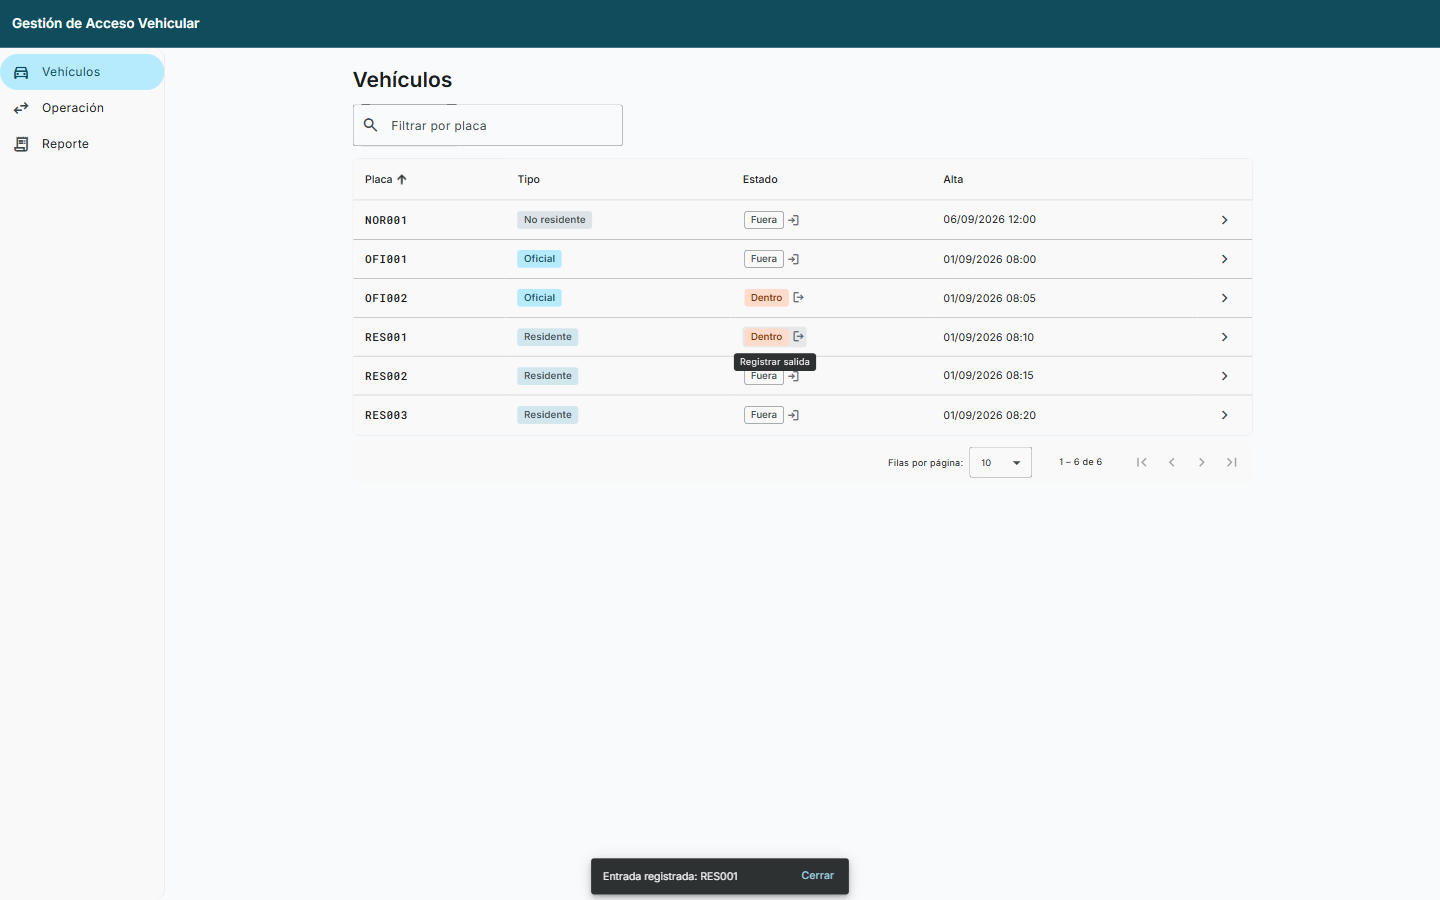
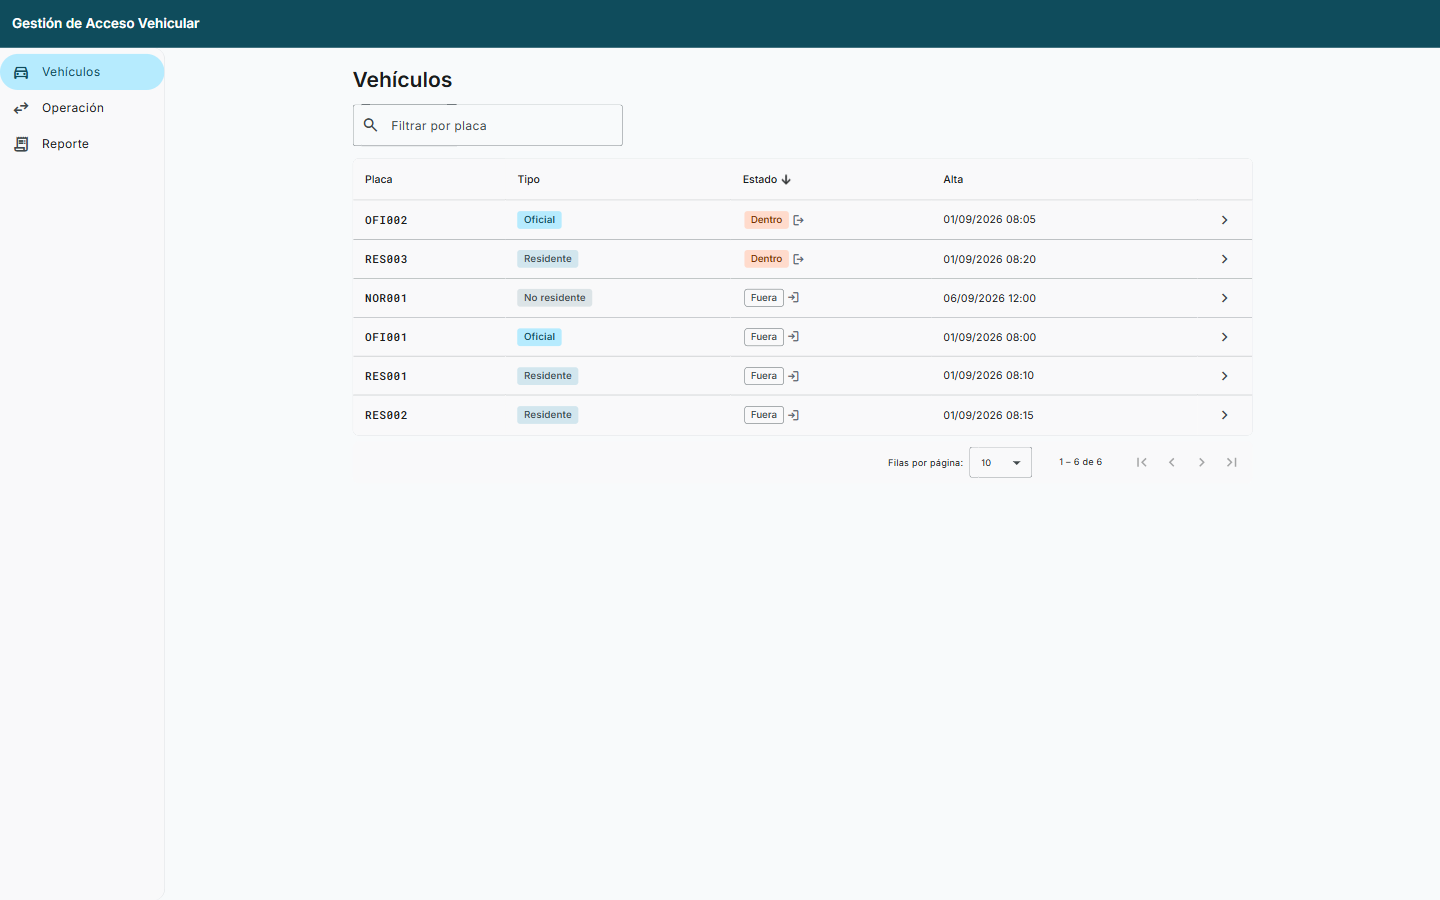
feat: listado ordenado con vehículos dentro primero y luego por placa
Backend: campo ordenable dentro (propiedad derivada @Formula), orden por defecto dentro,desc y desempate estable por placa en el listado de vehículos. Frontend: cabecera Estado ordenable y activa por defecto. 108 pruebas y 59 specs en verde; README y decisiones actualizados.

diff --git a/frontend/src/app/features/vehiculos/lista/vehiculos-lista.spec.ts b/frontend/src/app/features/vehiculos/lista/vehiculos-lista.spec.ts
@@ -51,7 +51,7 @@ describe('VehiculosLista', () => {
     expect(req.request.method).toBe('GET');
     expect(req.request.params.get('page')).toBe('0');
     expect(req.request.params.get('size')).toBe('10');
-    expect(req.request.params.get('sort')).toBe('placa,asc');
+    expect(req.request.params.get('sort')).toBe('dentro,desc');
     expect(req.request.params.has('placa')).toBeFalse();
     req.flush(pagina(VEHICULOS, 42));
     await fixture.whenStable();
@@ -97,6 +97,23 @@ describe('VehiculosLista', () => {
     await cabeceras[0].click();
     const req = peticion();
     expect(req.request.params.get('sort')).toBe('tipo,asc');
+    expect(req.request.params.get('page')).toBe('0');
+    req.flush(pagina(VEHICULOS));
+    await fixture.whenStable();
+  });
+
+  it('arranca ordenado por Estado (dentro primero) y al pulsar la cabecera alterna a dentro,asc', async () => {
+    peticion().flush(pagina(VEHICULOS));
+    await fixture.whenStable();
+
+    const sort = await loader.getHarness(MatSortHarness);
+    const activa = await sort.getActiveHeader();
+    expect(await activa?.getLabel()).toBe('Estado');
+    expect(await activa?.getSortDirection()).toBe('desc');
+
+    await activa?.click();
+    const req = peticion();
+    expect(req.request.params.get('sort')).toBe('dentro,asc');
     expect(req.request.params.get('page')).toBe('0');
     req.flush(pagina(VEHICULOS));
     await fixture.whenStable();

diff --git a/frontend/src/app/features/vehiculos/lista/vehiculos-lista.html b/frontend/src/app/features/vehiculos/lista/vehiculos-lista.html
@@ -51,8 +51,8 @@
         mat-table
         [dataSource]="pagina.content"
         matSort
-        matSortActive="placa"
-        matSortDirection="asc"
+        matSortActive="dentro"
+        matSortDirection="desc"
         matSortDisableClear
         (matSortChange)="cambiarOrden($event)"
         aria-label="Listado de vehículos"
@@ -71,8 +71,15 @@
           </td>
         </ng-container>
 
-        <ng-container matColumnDef="estado">
-          <th mat-header-cell *matHeaderCellDef>Estado</th>
+        <ng-container matColumnDef="dentro">
+          <th
+            mat-header-cell
+            *matHeaderCellDef
+            mat-sort-header
+            matTooltip="Por defecto: dentro primero, luego placa"
+          >
+            Estado
+          </th>
           <td mat-cell *matCellDef="let vehiculo">
             <button
               type="button"

diff --git a/frontend/src/app/features/vehiculos/lista/vehiculos-lista.ts b/frontend/src/app/features/vehiculos/lista/vehiculos-lista.ts
@@ -23,7 +23,8 @@ import { Loading } from '../../../shared/loading/loading';
 import { PlacaMayusculas } from '../../../shared/placa/placa-mayusculas.directive';
 import { normalizarPlaca } from '../../../shared/placa/placa.validator';
 
-export const ORDEN_INICIAL = 'placa,asc';
+/** Dentro primero y, en cada grupo, placa ascendente (el backend desempata por placa). */
+export const ORDEN_INICIAL = 'dentro,desc';
 
 @Component({
   selector: 'app-vehiculos-lista',
@@ -54,7 +55,7 @@ export class VehiculosLista {
   private readonly locale = inject(LOCALE_ID);
 
   readonly filtroControl = new FormControl('', { nonNullable: true });
-  readonly columnas = ['placa', 'tipo', 'estado', 'createdAt', 'acciones'];
+  readonly columnas = ['placa', 'tipo', 'dentro', 'createdAt', 'acciones'];
   readonly tamanos = [5, 10, 25];
 
   readonly pagina = signal(0);

diff --git a/backend/src/main/java/mx/neology/acceso/infrastructure/persistencia/Paginas.java b/backend/src/main/java/mx/neology/acceso/infrastructure/persistencia/Paginas.java
@@ -14,11 +14,22 @@ final class Paginas {
   private Paginas() {}
 
   static Pageable aPageable(ConsultaPagina consulta) {
-    Sort orden =
-        consulta.ascendente()
-            ? Sort.by(consulta.campoOrden()).ascending()
-            : Sort.by(consulta.campoOrden()).descending();
+    return PageRequest.of(consulta.pagina(), consulta.tamano(), orden(consulta));
+  }
+
+  /** Igual que {@link #aPageable(ConsultaPagina)} pero desempata por {@code campoDesempate} asc. */
+  static Pageable aPageable(ConsultaPagina consulta, String campoDesempate) {
+    Sort orden = orden(consulta);
+    if (!campoDesempate.equals(consulta.campoOrden())) {
+      orden = orden.and(Sort.by(campoDesempate).ascending());
+    }
     return PageRequest.of(consulta.pagina(), consulta.tamano(), orden);
+  }
+
+  private static Sort orden(ConsultaPagina consulta) {
+    return consulta.ascendente()
+        ? Sort.by(consulta.campoOrden()).ascending()
+        : Sort.by(consulta.campoOrden()).descending();
   }
 
   static <E, D> Pagina<D> aPagina(Page<E> page, Function<E, D> conversion) {

diff --git a/backend/src/main/java/mx/neology/acceso/web/VehiculosController.java b/backend/src/main/java/mx/neology/acceso/web/VehiculosController.java
@@ -24,7 +24,7 @@ import org.springframework.web.bind.annotation.RestController;
 @Tag(name = "Vehículos", description = "Altas, listado, detalle e historial de vehículos")
 public class VehiculosController {
 
-  private static final Set<String> CAMPOS_ORDEN = Set.of("placa", "tipo", "createdAt");
+  private static final Set<String> CAMPOS_ORDEN = Set.of("dentro", "placa", "tipo", "createdAt");
 
   private final RegistrarVehiculo registrarVehiculo;
   private final ConsultarVehiculos consultarVehiculos;
@@ -59,7 +59,7 @@ public class VehiculosController {
       @RequestParam(required = false) String placa,
       @RequestParam(defaultValue = "0") int page,
       @RequestParam(defaultValue = "10") int size,
-      @RequestParam(defaultValue = "placa,asc") String sort) {
+      @RequestParam(defaultValue = "dentro,desc") String sort) {
     ConsultaPagina consulta = ParametrosPagina.de(page, size, sort, CAMPOS_ORDEN);
     return PageResponse.de(consultarVehiculos.listar(placa, consulta), Respuestas::resumen);
   }

diff --git a/backend/src/test/java/mx/neology/acceso/web/ConsultasIntegracionTest.java b/backend/src/test/java/mx/neology/acceso/web/ConsultasIntegracionTest.java
@@ -26,6 +26,12 @@ class ConsultasIntegracionTest extends IntegracionBase {
         .andExpect(jsonPath("$.size").value(2))
         .andExpect(jsonPath("$.totalElements").value(6))
         .andExpect(jsonPath("$.totalPages").value(3));
+    mvc.perform(get("/neo/vehiculos"))
+        .andExpect(status().isOk())
+        .andExpect(jsonPath("$.content[0].placa").value("OFI002")) // el unico dentro, primero
+        .andExpect(jsonPath("$.content[0].dentro").value(true))
+        .andExpect(jsonPath("$.content[1].placa").value("NOR001")) // resto por placa
+        .andExpect(jsonPath("$.content[5].placa").value("RES003"));
     mvc.perform(get("/neo/vehiculos").param("sort", "placa,desc"))
         .andExpect(status().isOk())
         .andExpect(jsonPath("$.content[0].placa").value("RES003"));

diff --git a/backend/src/test/java/mx/neology/acceso/infrastructure/persistencia/VehiculoRepositorioJpaTest.java b/backend/src/test/java/mx/neology/acceso/infrastructure/persistencia/VehiculoRepositorioJpaTest.java
@@ -67,6 +67,14 @@ class VehiculoRepositorioJpaTest {
   }
 
   @Test
+  void ordenaDentroPrimeroYDesempataPorPlaca() {
+    Pagina<Vehiculo> pagina = repositorio.listar("", new ConsultaPagina(0, 10, "dentro", false));
+    assertThat(pagina.contenido())
+        .extracting(v -> v.placa().valor())
+        .containsExactly("OFI002", "NOR001", "OFI001", "RES001", "RES002", "RES003");
+  }
+
+  @Test
   void acumuladosPorTipoTraeCerosParaResidentesSinFila() {
     OffsetDateTime ahora = OffsetDateTime.parse("2026-09-15T12:00:00-06:00");
     repositorio.guardar(Vehiculo.nuevo(Placa.de("RES010"), TipoVehiculo.RESIDENTE, ahora));

diff --git a/backend/src/main/java/mx/neology/acceso/infrastructure/persistencia/VehiculoEntity.java b/backend/src/main/java/mx/neology/acceso/infrastructure/persistencia/VehiculoEntity.java
@@ -9,6 +9,7 @@ import jakarta.persistence.Table;
 import java.time.OffsetDateTime;
 import java.util.UUID;
 import mx.neology.acceso.domain.TipoVehiculo;
+import org.hibernate.annotations.Formula;
 
 @Entity
 @Table(name = "vehiculos")
@@ -25,6 +26,10 @@ public class VehiculoEntity {
 
   @Column(name = "estancia_abierta_id")
   private UUID estanciaAbiertaId;
+
+  /** Derivado de solo lectura: permite ordenar el listado por "vehículos dentro primero". */
+  @Formula("estancia_abierta_id is not null")
+  private Boolean dentro;
 
   @Column(name = "created_at", nullable = false)
   private OffsetDateTime createdAt;

diff --git a/backend/src/main/java/mx/neology/acceso/infrastructure/persistencia/VehiculoRepositorioJpa.java b/backend/src/main/java/mx/neology/acceso/infrastructure/persistencia/VehiculoRepositorioJpa.java
@@ -46,7 +46,7 @@ public class VehiculoRepositorioJpa implements VehiculoRepositorio {
   @Override
   public Pagina<Vehiculo> listar(String filtroPlaca, ConsultaPagina consulta) {
     return Paginas.aPagina(
-        repositorio.findByPlacaContaining(filtroPlaca, Paginas.aPageable(consulta)),
+        repositorio.findByPlacaContaining(filtroPlaca, Paginas.aPageable(consulta, "placa")),
         VehiculoRepositorioJpa::aDominio);
   }
 

diff --git a/README.md b/README.md
@@ -44,8 +44,9 @@ npm ci
 npm start                       # ng serve con proxy: /neo y /actuator → http://localhost:8080
 ```
 
-Abrir <http://localhost:4200>. Páginas: **Vehículos** (listado con filtro, paginación y ordenamiento;
-el chip de estado registra la entrada o la salida con un clic; detalle por placa), **Operación**
+Abrir <http://localhost:4200>. Páginas: **Vehículos** (listado con filtro, paginación y ordenamiento,
+ordenado por defecto con los vehículos que están dentro primero y luego por placa; el chip de estado
+registra la entrada o la salida con un clic; detalle por placa), **Operación**
 (registrar movimiento de entrada o salida por placa, alta de vehículo con entrada inmediata opcional, iniciar mes) y **Reporte**
 (informe de pagos de residentes con descarga en Excel).
 
@@ -87,7 +88,7 @@ abierta, de modo que el listado, el detalle y el reporte muestran datos desde el
 | POST | `/neo/estancias/salida` | Registrar salida; devuelve duración real (`duracionSegundos`), minutos cobrados e importe |
 | GET | `/neo/residentes/pagos` | Informe de pagos del periodo activo. `Accept: application/json` → JSON; `Accept: application/vnd.openxmlformats-officedocument.spreadsheetml.sheet` → `.xlsx` |
 | POST | `/neo/mes/iniciar` | Cierra el periodo activo y abre uno nuevo |
-| GET | `/neo/vehiculos?placa=&page=&size=&sort=` | Listado paginado con filtro y ordenamiento |
+| GET | `/neo/vehiculos?placa=&page=&size=&sort=` | Listado paginado con filtro y ordenamiento (`sort` admite `dentro`, `placa`, `tipo`, `createdAt`; por defecto `dentro,desc`: vehículos dentro primero y luego por placa) |
 | GET | `/neo/vehiculos/{placa}` | Detalle: tipo, estado, acumulado del periodo |
 | GET | `/neo/vehiculos/{placa}/estancias` | Estancias del vehículo, paginadas |
 

diff --git a/docs/decisiones.md b/docs/decisiones.md
@@ -26,3 +26,4 @@ está en [Requerimientos.md](../Requerimientos.md); la arquitectura completa en
 | 18 | Rama de entrega `feature/xochitlgr` a partir de `upstream/main`, PR al repositorio de Neology | Convención observada en los PRs existentes del repositorio. |
 | 19 | Operación de **un clic desde el listado**: el chip «Fuera» registra la entrada y «Dentro» la salida; el alta registra la entrada por defecto (interruptor «Registrar entrada ahora»); los formularios de entrada y salida se fusionan en una tarjeta «Registrar movimiento» (un campo de placa, dos botones) | Acerca la acción al dato y ahorra clics al operador. La hora la sigue asignando el servidor. |
 | 20 | En H2 el `CHECK` de tipo de vehículo usa una cadena de `OR` en vez de `IN (...)` | H2 evalúa `IN` con la sesión que creó la tabla; cuando HikariCP retira esa conexión (`maxLifetime`, 30 min) las escrituras fallan con "The database has been closed". Detectado en pruebas manuales. |
+| 21 | **Orden del listado:** por defecto vehículos **dentro primero** y, dentro de cada grupo, **por placa ascendente** (`sort=dentro,desc`); ordenable también por placa, tipo y fecha de alta, siempre con desempate por placa | Los vehículos que están en el estacionamiento son los que el operador atiende; la placa como desempate hace el orden estable entre páginas. Se implementa con una propiedad derivada (`@Formula`) en la entidad. |
